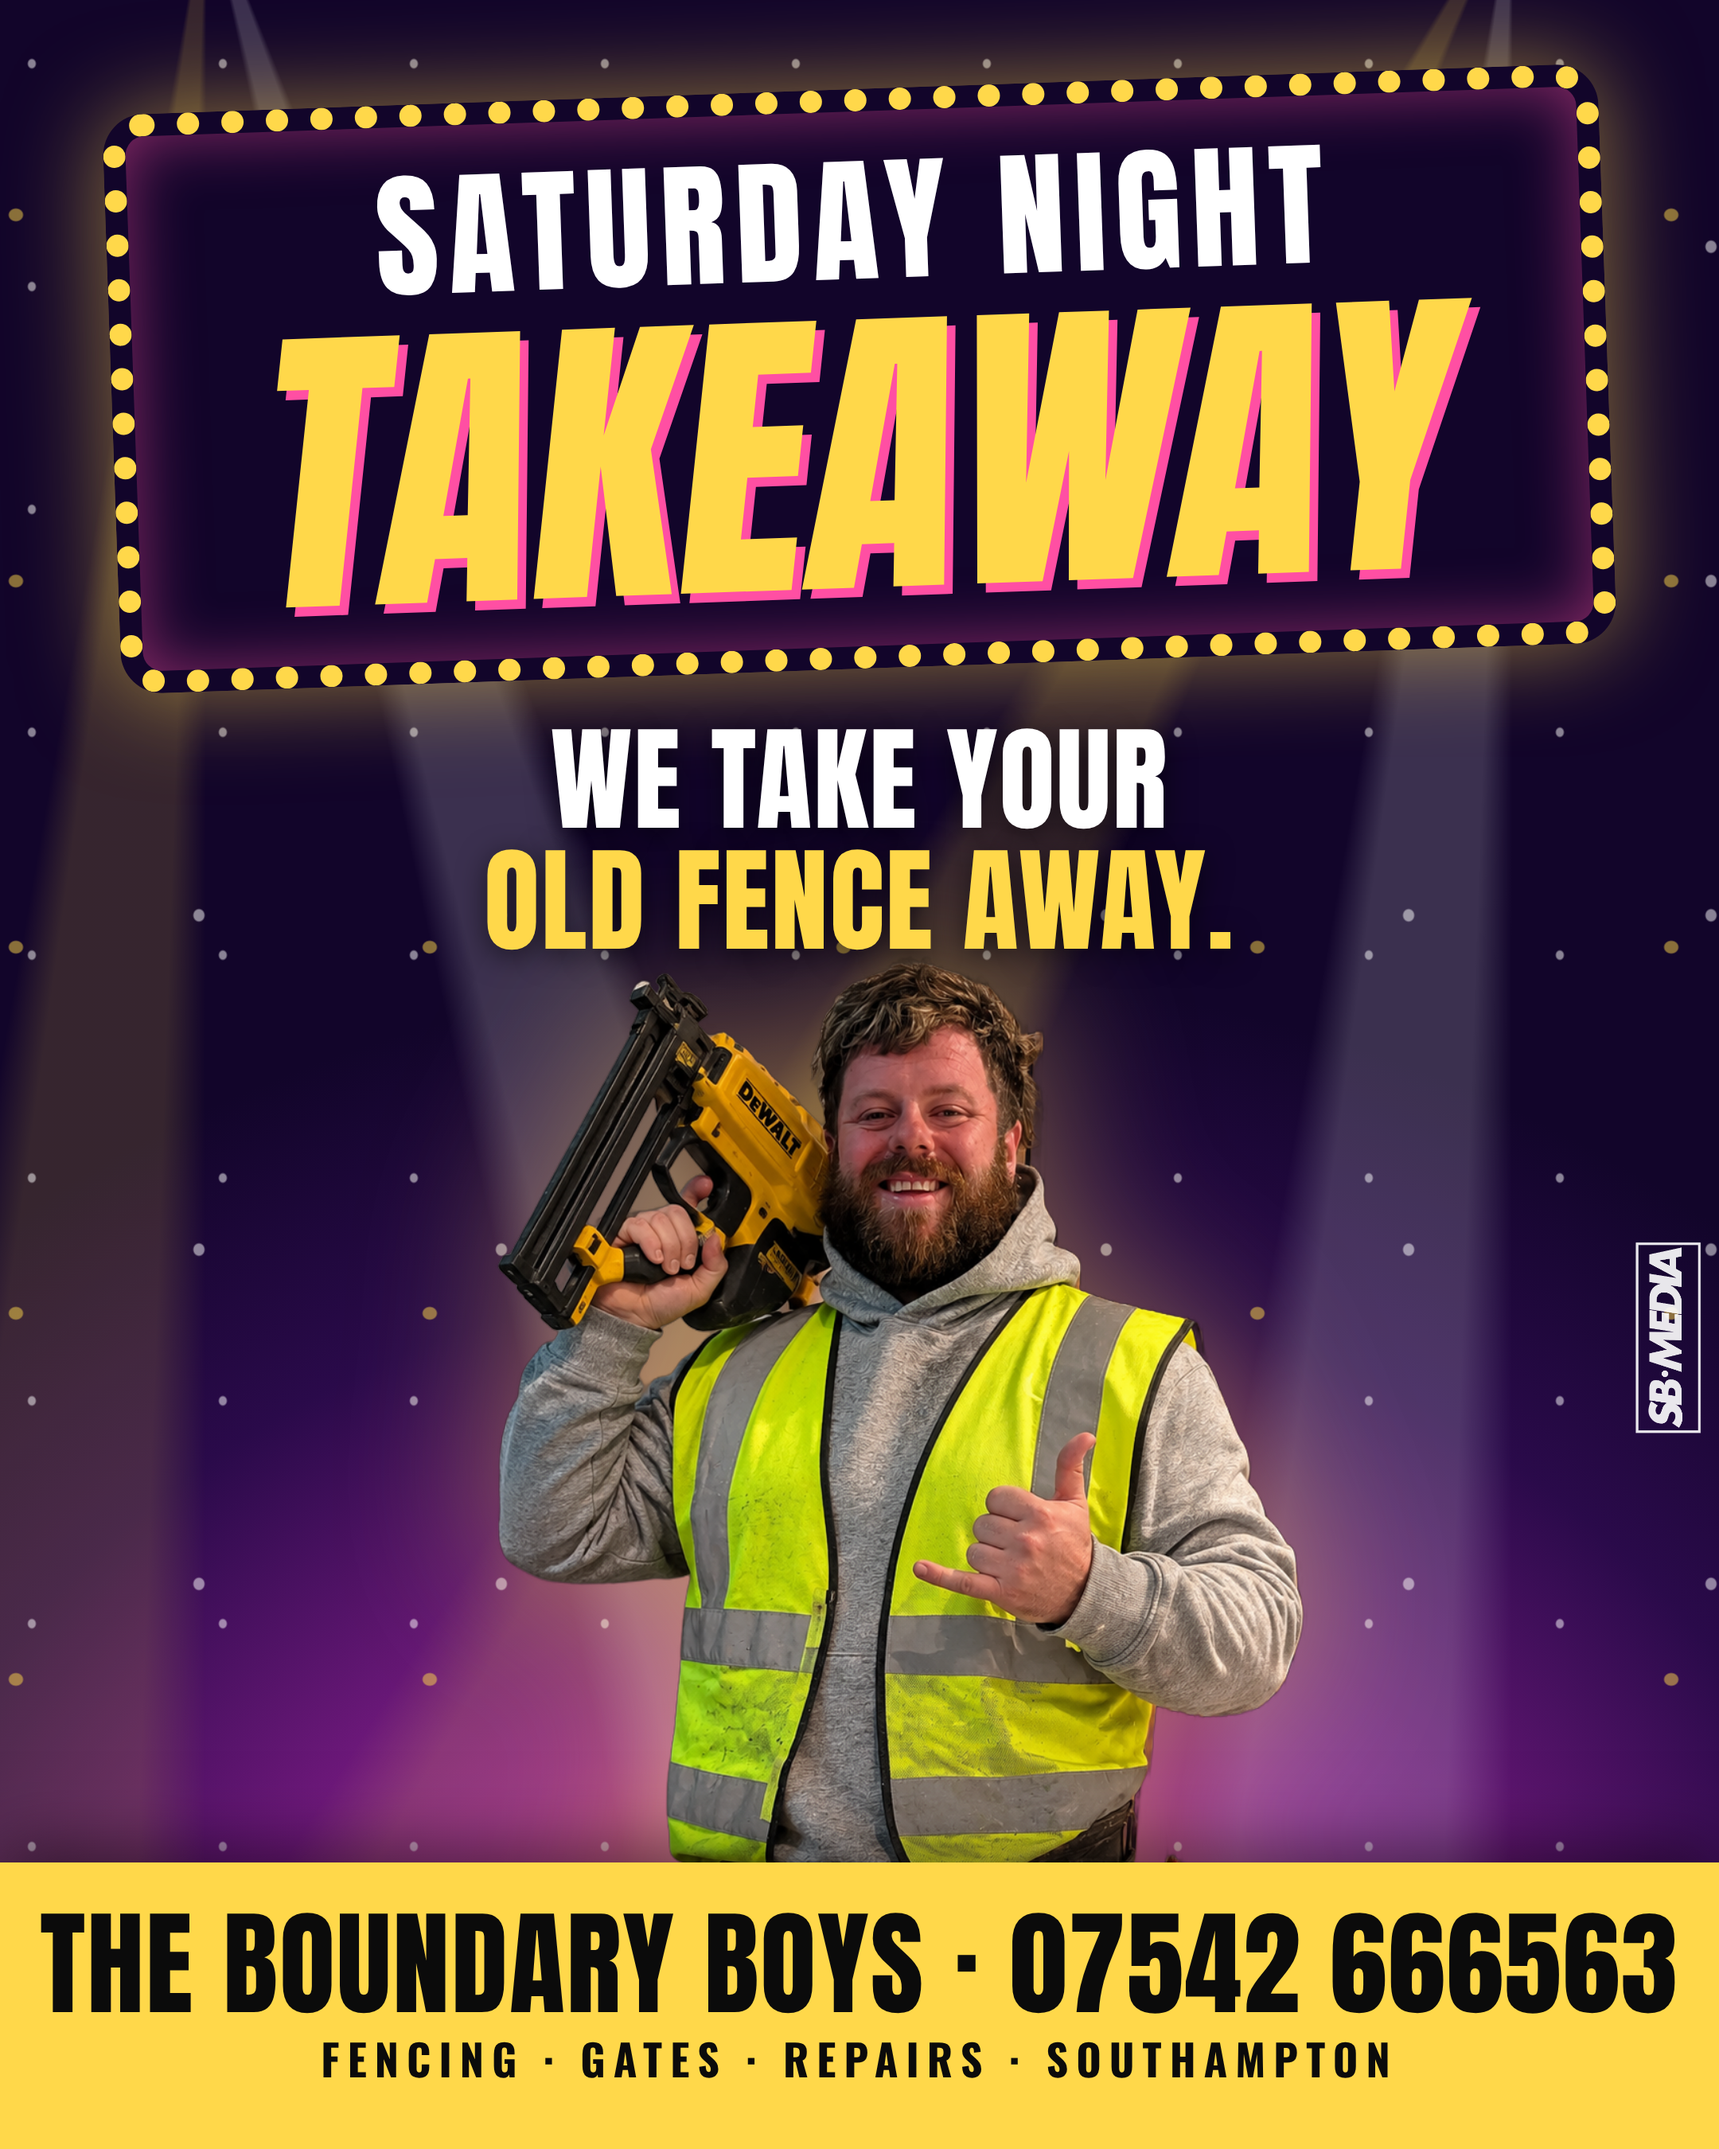
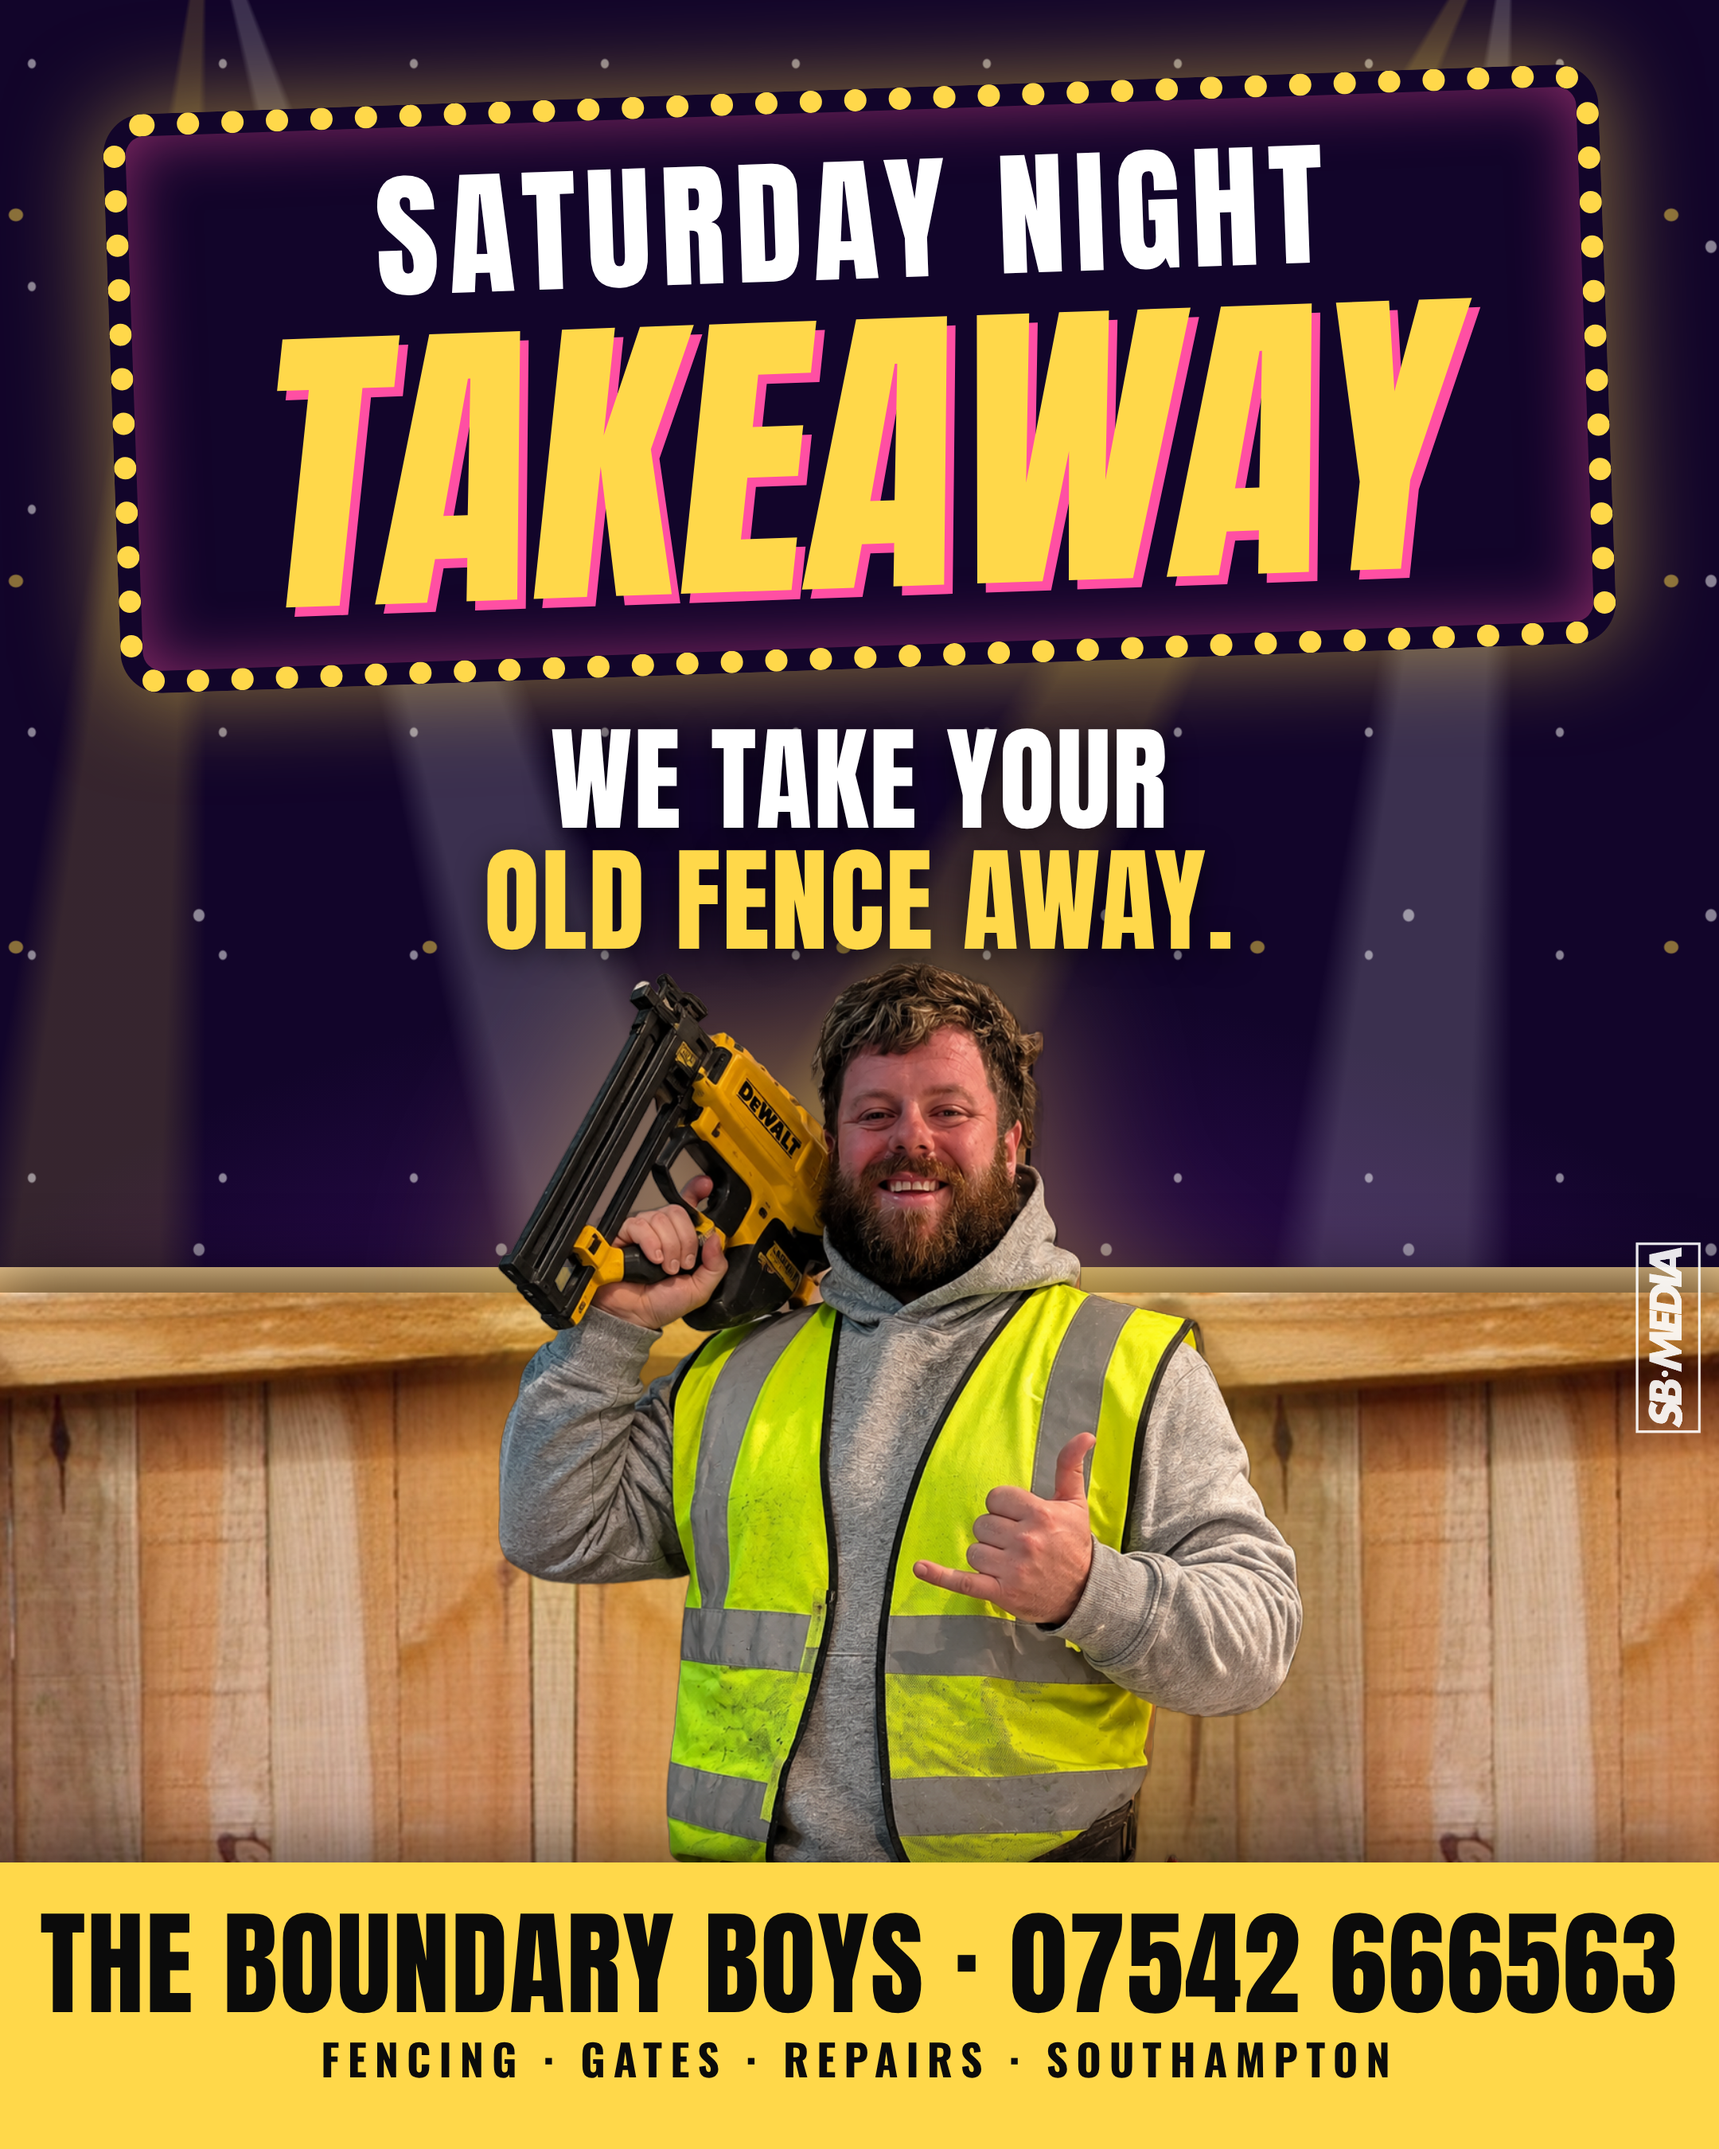
Saturday Night Takeaway poster: add real timber fence behind the photo
Claude-Session: https://claude.ai/code/session_01Rq6TRjXg8vNgUrSz3Z5WjU

Changed region(s): [[0.0, 0.5911, 0.4032, 0.8711], [0.6204, 0.5911, 1.0, 0.8711], [0.3722, 0.5911, 0.4032, 0.6533]]

diff --git a/marketing/graphics/hero.html b/marketing/graphics/hero.html
@@ -36,6 +36,8 @@
 .snt .foot { position:absolute; left:0; right:0; bottom:0; height:180px; background:#FFD84A; color:#0b0b0b; z-index:8; box-shadow:0 -10px 40px rgba(0,0,0,.5); }
 .snt .foot b { display:block; font:400 72px/1.1 Anton; text-transform:uppercase; letter-spacing:1px; margin-top:24px; }
 .snt .foot i { display:block; font:700 27px Oswald; font-style:normal; letter-spacing:5px; text-transform:uppercase; }
+.snt .fencephoto { position:absolute; left:0; right:0; top:812px; bottom:180px; z-index:3; background:linear-gradient(rgba(70,20,110,.02),rgba(70,20,110,.16)), url(assets/real-fence.jpg) top center/1152px auto; box-shadow:0 -14px 40px rgba(0,0,0,.45); }
+.snt .cap { position:absolute; left:0; right:0; top:796px; height:24px; z-index:3; background:linear-gradient(#e8c48c,#b98a4e); box-shadow:0 6px 10px rgba(0,0,0,.4); }
 </style></head>
 <body>
 <div class="p f13" id="2026-11-13-friday-the-13th">
@@ -67,6 +69,7 @@
   <div class="beams"></div><div class="dots"></div>
   <div class="sign"><small>Saturday Night</small><b>Takeaway</b></div>
   <div class="punch">We take your<br><span>old fence away.</span></div>
+  <div class="cap"></div><div class="fencephoto"></div>
   <img class="me" src="assets/me-nailgun.png">
   <img src="assets/sb-media.png" alt="SB Media" style="position:absolute;right:-28px;top:820px;width:120px;transform:rotate(-90deg);opacity:.9;z-index:7">
   <div class="foot"><b>The Boundary Boys · 07542 666563</b><i>Fencing · Gates · Repairs · Southampton</i></div>
